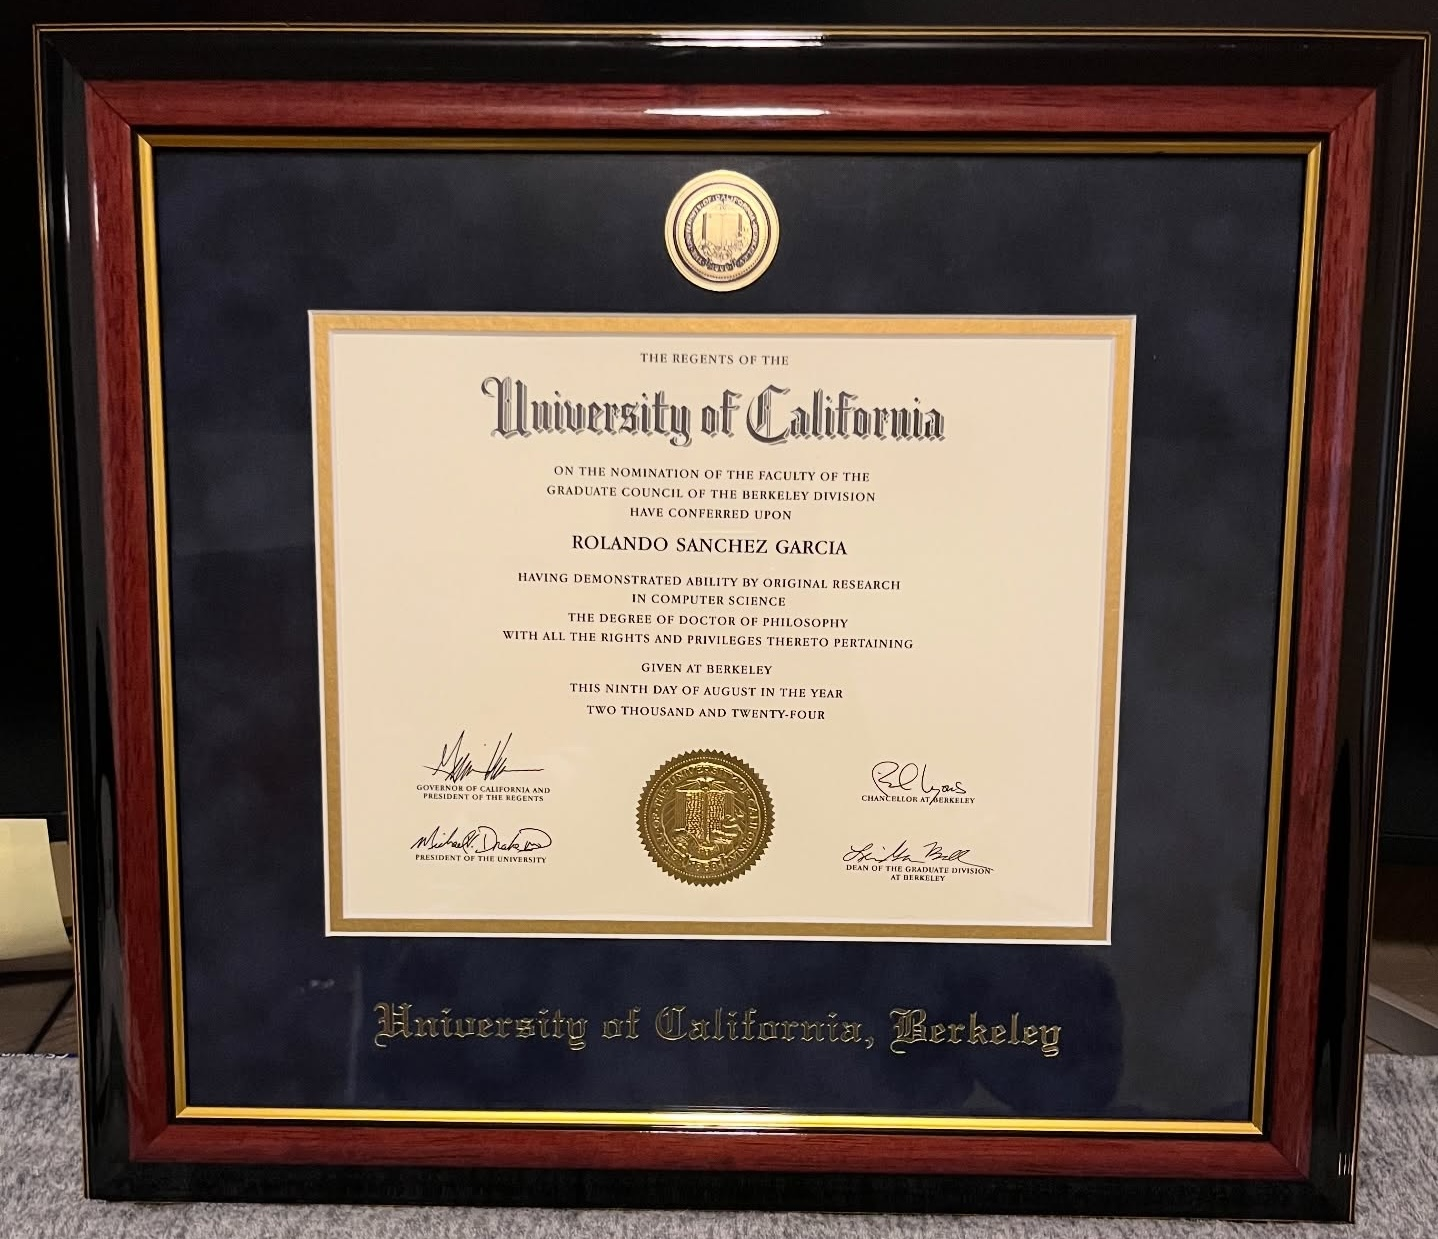
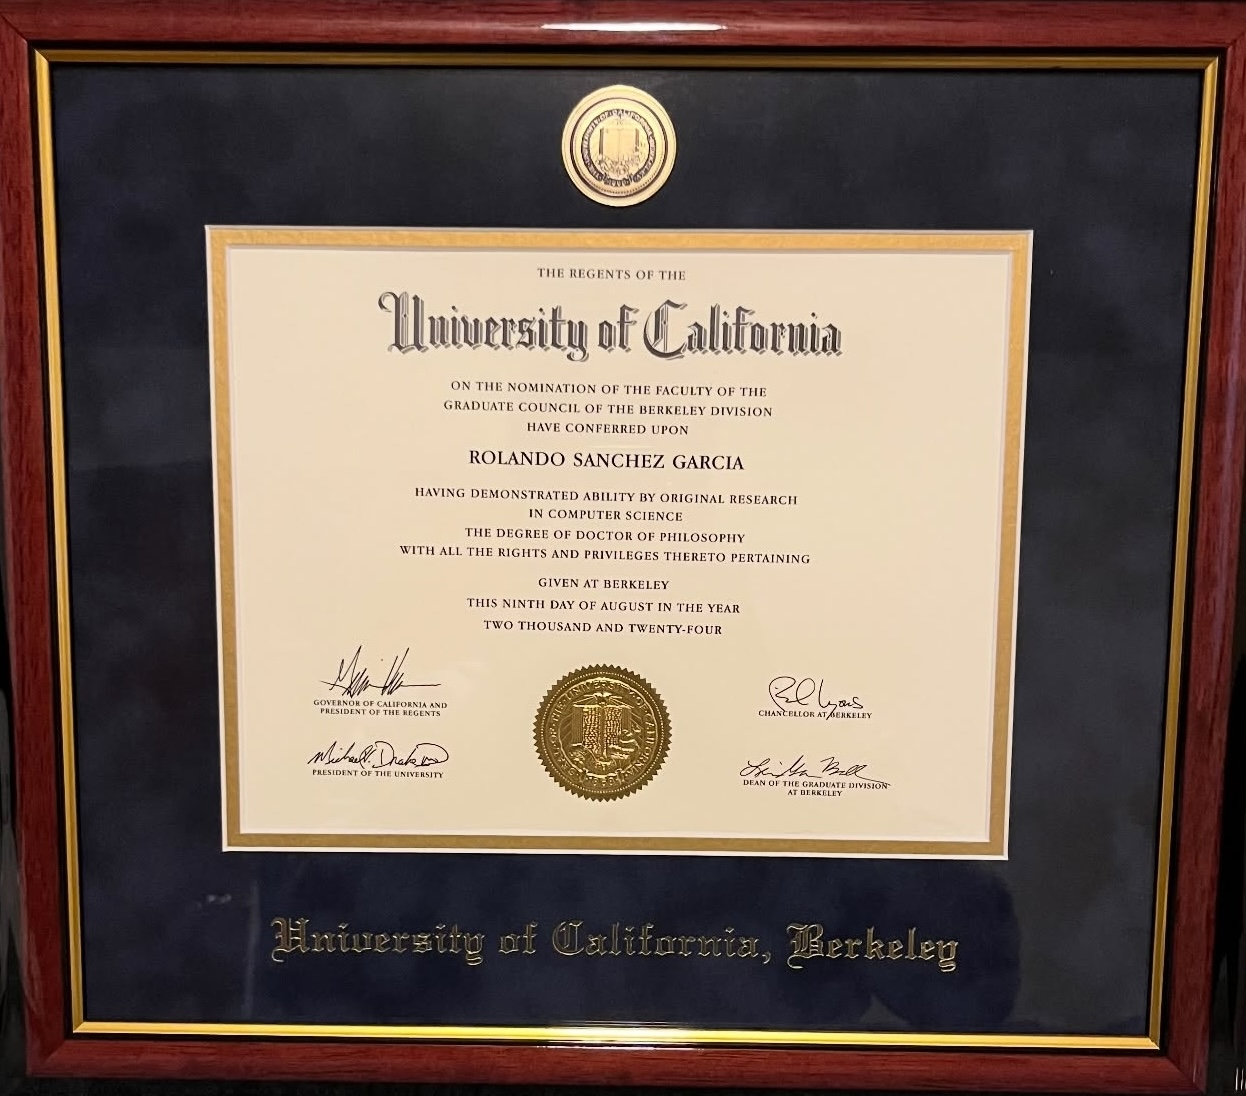
resizing

diff --git a/index.html b/index.html
@@ -85,10 +85,9 @@
             rolando.garcia@asu.edu
         </h4>
         <div style="text-align:center;">
-            <img src="img/diploma.jpg" alt="Diploma" style="width:300px;">
+            <img src="img/diploma.jpg" alt="Diploma" style="width:250px;">
         </div>
         <a rel="me" href="https://discuss.systems/@rogarcia"></a>
-        <br>
         <br>
     </div>
 
